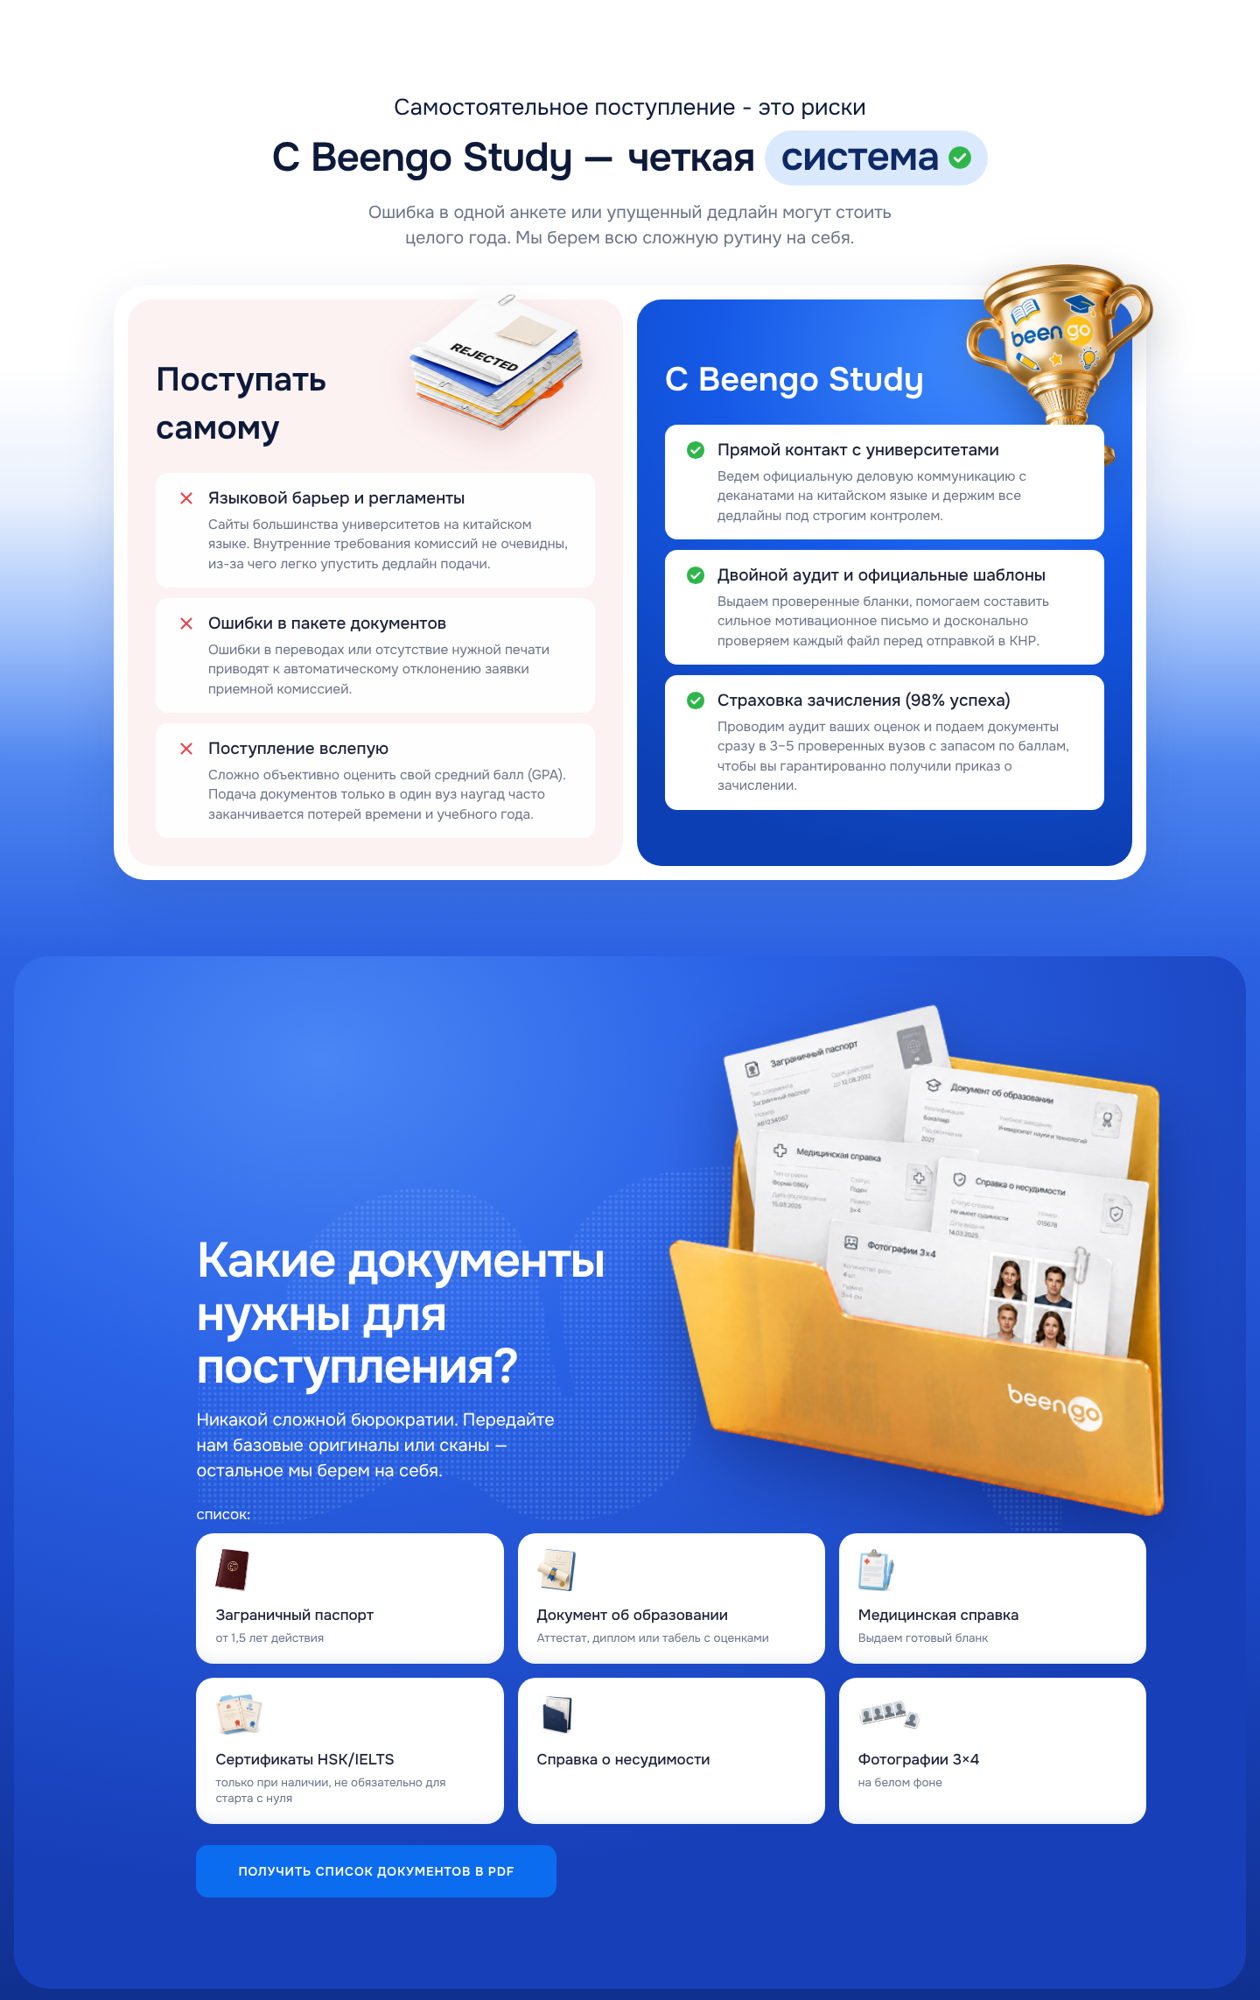
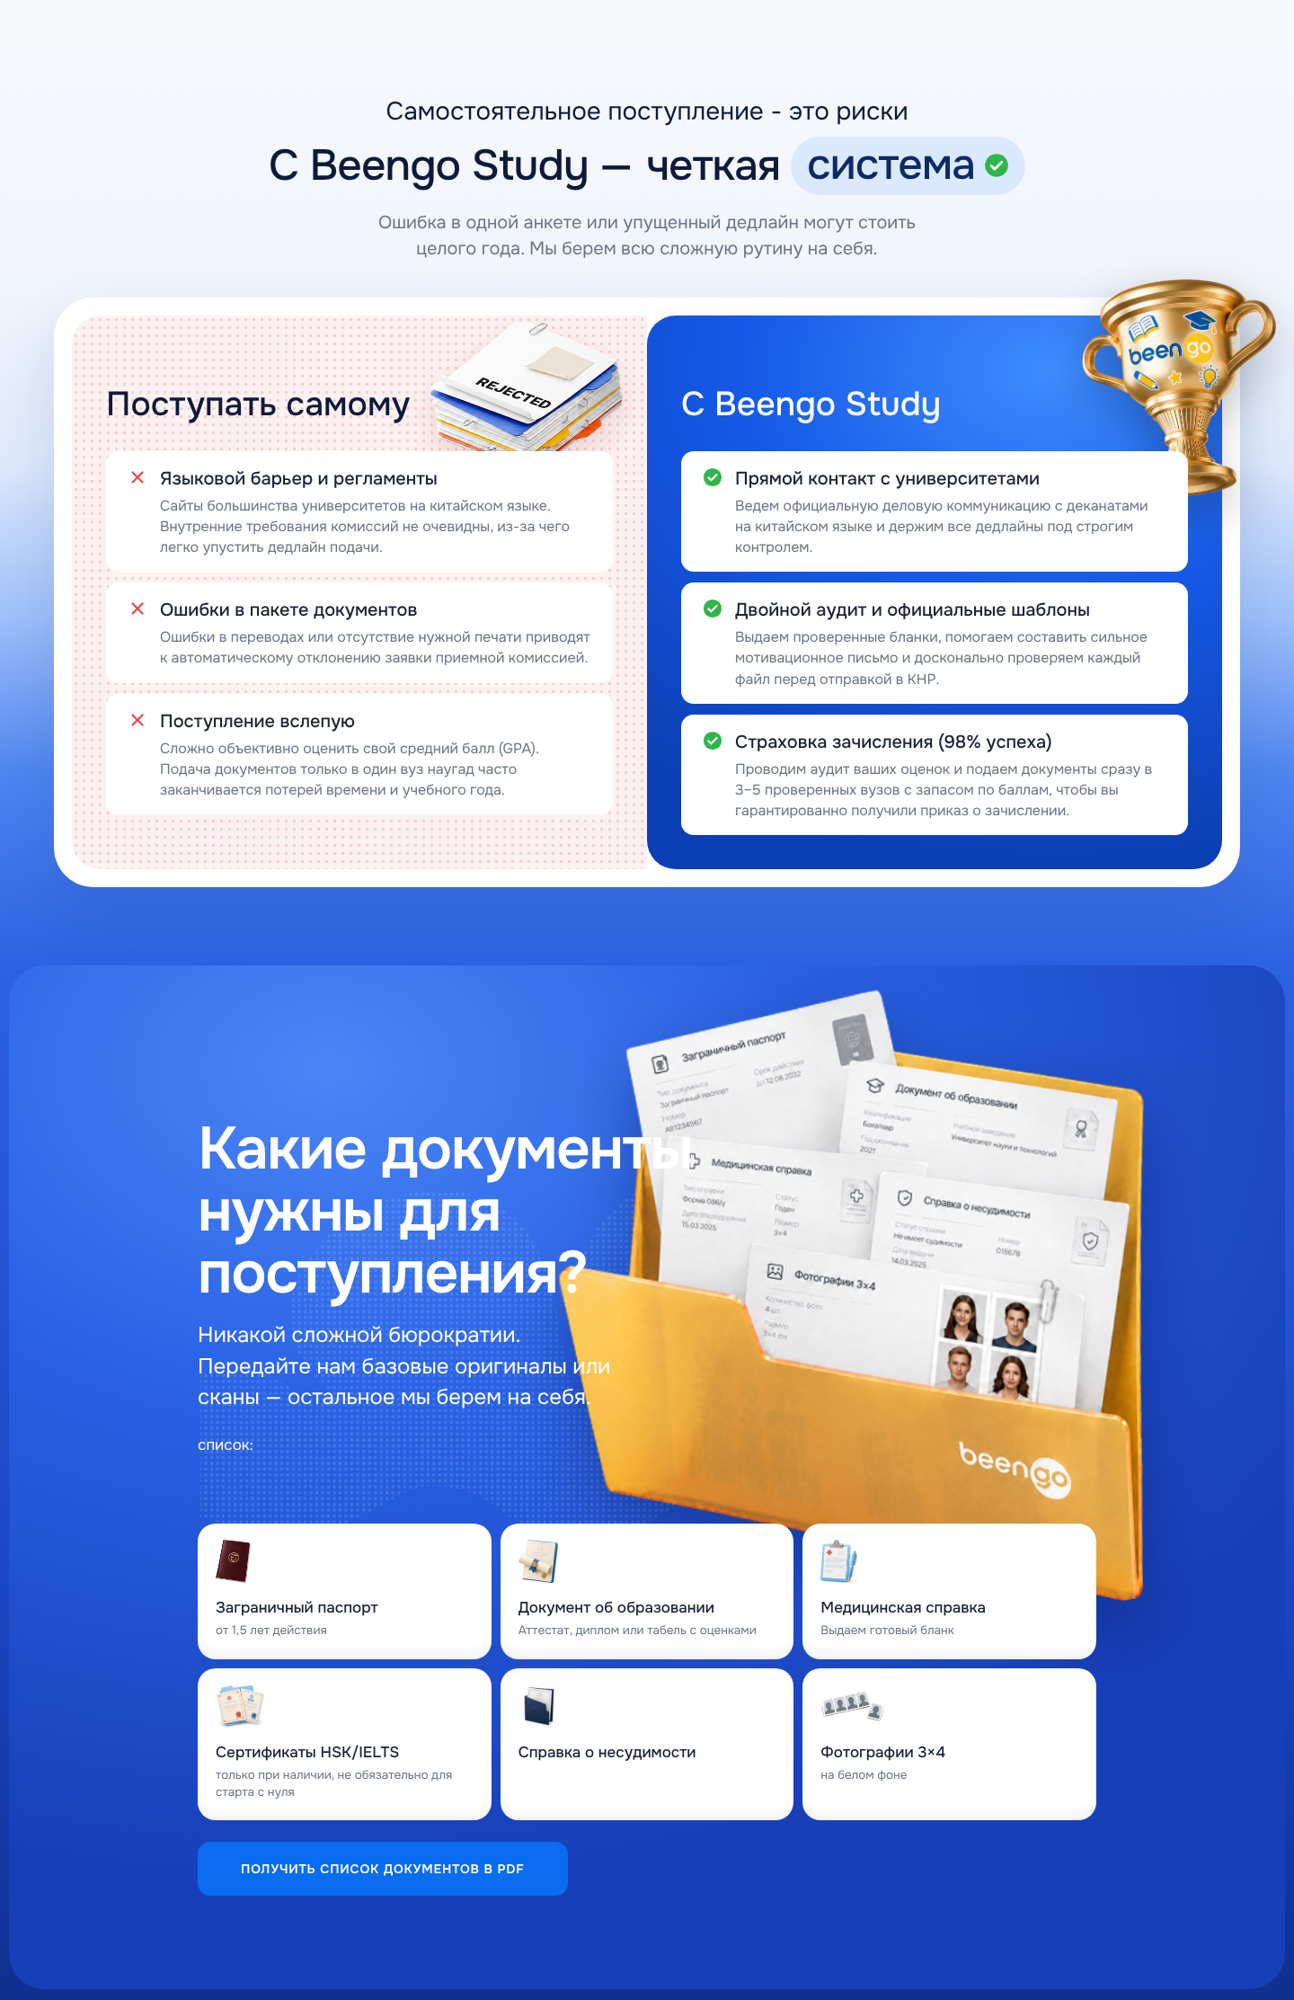
Pains and docs screen matched to Figma on desktop
Claude-Session: https://claude.ai/code/session_01DveQThDXrjAqWsCdBVYsEN

diff --git a/index.html b/index.html
@@ -1266,6 +1266,51 @@ a,button,.dd-btn,.dd-opt{touch-action:manipulation}
 .frame.pains{width:100%;border-radius:0;background:none;padding-bottom:clamp(56px,6vw,88px)}
 #docs.sec{padding-top:0;background:linear-gradient(180deg,#2c62e2 0%,#1a46c4 60%,#10308f 100%)}
 @media (max-width:680px){.frame.pains{width:100%;border-radius:0;padding-bottom:40px}#pains.sec{background:linear-gradient(180deg,#fff 0%,#fff 22%,#eaf1fd 35%,#9fc0fa 55%,#4f86f0 78%,#2c62e2 100%)}}
+
+/* ===== Точно по макету: «Четкая система» + «Документы» (компьютер) ===== */
+@media (min-width:981px){
+  #pains.sec{background:linear-gradient(180deg,#f7f9fd 0%,#f1f5fc 30%,#dfeafc 48%,#9fc0fa 64%,#4f86f0 80%,#2c62e2 100%)}
+  #pains .container{width:calc(100% - 76px);max-width:1320px}
+  #pains .head{max-width:1000px;margin-inline:auto}
+  .pains .pre{font-size:clamp(20px,2vw,28px);color:#0d1a3a}
+  .pains .h2{font-size:clamp(36px,3.4vw,48px);font-weight:500}
+  .compare{padding:20px;gap:0;border-radius:44px;box-shadow:0 30px 70px rgba(19,52,120,.14);grid-template-columns:1fr 1fr}
+  .side{border-radius:32px;padding:clamp(56px,5vw,72px) 38px 38px}
+  .side.bad{border-radius:32px 0 0 32px;background:#fdf1f1}
+  .side.good{border-radius:32px}
+  .side h3{font-size:clamp(28px,2.6vw,38px);font-weight:500;max-width:none}
+  .side.bad .deco{right:4%;top:6px;width:clamp(160px,15vw,230px)}
+  .side.good .deco{right:-60px;top:-40px;width:clamp(170px,15vw,230px)}
+  .item b{font-size:clamp(17px,1.4vw,20px)}
+  .item p{font-size:clamp(14px,1.15vw,16px)}
+  .frame.docs{width:calc(100% - 20px)}
+  .frame .docs-wrap{padding-left:12%;padding-right:12%}
+  .docs-top{grid-template-columns:1fr 1fr;align-items:center}
+  .docs-top h2{font-size:clamp(44px,4.6vw,68px);line-height:1.05;position:relative;z-index:3}
+  .docs-top p{font-size:clamp(18px,1.7vw,24px);max-width:470px;position:relative;z-index:3}
+  .folder{margin:-60px -40px -40px -140px;z-index:1}
+  .doc-grid{gap:10px}
+  .doc{border-radius:20px;padding:18px 20px 22px}
+}
+
+@media (min-width:981px){
+  .frame .docs-wrap{padding-left:max(40px,calc((100% - 1000px)/2));padding-right:max(40px,calc((100% - 1000px)/2))}
+  .docs-top{grid-template-columns:1.1fr .9fr}
+  .docs-top h2{font-size:clamp(42px,4.2vw,60px);margin-right:-120px}
+  .docs-top p{max-width:460px}
+  .folder{margin:-50px -30px -30px -40px}
+}
+
+@media (min-width:981px){
+  .docs-top{grid-template-columns:1fr 1fr;align-items:center}
+  .docs-top h2{font-size:clamp(46px,4.6vw,66px);margin-right:-260px}
+  .folder{margin:-70px -60px -110px -110px}
+  .doc-grid{position:relative;z-index:3}
+  .side.bad{background:#fdf1f1 radial-gradient(rgba(240,140,140,.35) 1.4px,transparent 1.6px) 0 0/9px 9px}
+  .side.bad .item{background:#fff}
+}
+
+@media (min-width:981px){.docs-top > div:first-child{position:relative;z-index:4}.folder{z-index:1}}
 </style>
 </head>
 <body>
